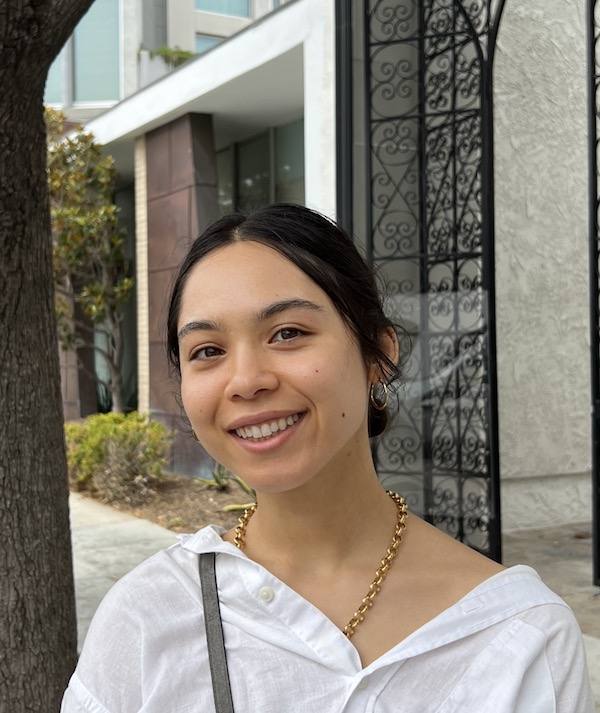
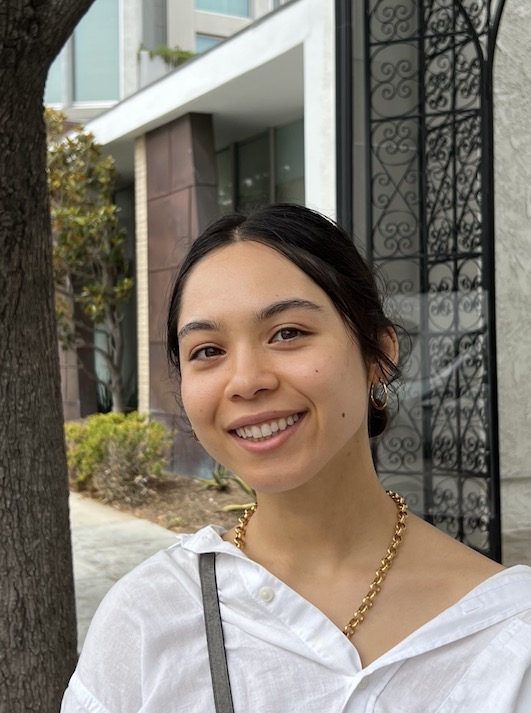
Updated photos
Profile photo centered, all bank case study images updated to white listed versions rather than blurried wireframe screenshots.

diff --git a/2021-bank.html b/2021-bank.html
@@ -17,7 +17,7 @@
         <li><a href="https://selindenise.medium.com/">Blog</a> &#10024;</li>
       <ul>
     </nav>
-    <img class="cover-image" src="2021-bank-images/cover.jpg" alt="">
+    <img class="cover-image" src="2021-bank-images/DBank Send and Request Money.jpg" alt="">
     <h1 class="mark mark-green inline">Bringing manual experiences to the digital world</h1>
     <p class="role">User Experience Designer</p>
     <p class="description">Two platforms from this Canadian big five bank were being rebuilt from the ground up with new microservices and a completely new front end. My pod was given six different sections among two of the business banking platforms to design for.</p>
@@ -97,7 +97,7 @@
 </ul>
 <img class="project-image" src="2021-bank-images/deliverable-1.jpg">
     <small>An example of one of the six XD working files. Each working file included high-level flows and detailed designs for each page and state.</small>
-<img class="project-image" src="2021-bank-images/deliverable-2.jpg">
+<img class="project-image" src="2021-bank-images/Payment Transfers State Diagram.jpg">
     <small>An example of one of the state diagrams delivered with detailed annotations.</small>
 
 <h2>Future</h2>

diff --git a/index.html b/index.html
@@ -121,7 +121,7 @@
             <a href="2021-bank.html"><article class="project-highlight green card">
                 <h3><span class="mark mark-green">Bringing manual experiences to the digital world</span></h3>
                 <p><em>as a User Experience Designer @ a Top Five Canadian Bank</em></p>
-                <img class="highlight-photo" src="2021-bank-images/cover4.jpg" alt="">
+                <img class="highlight-photo" src="2021-bank-images/DBank Send and Request Money.jpg" alt="">
             </article></a>
             
             <a href="2020-telecom.html"><article class="project-highlight purple card">
